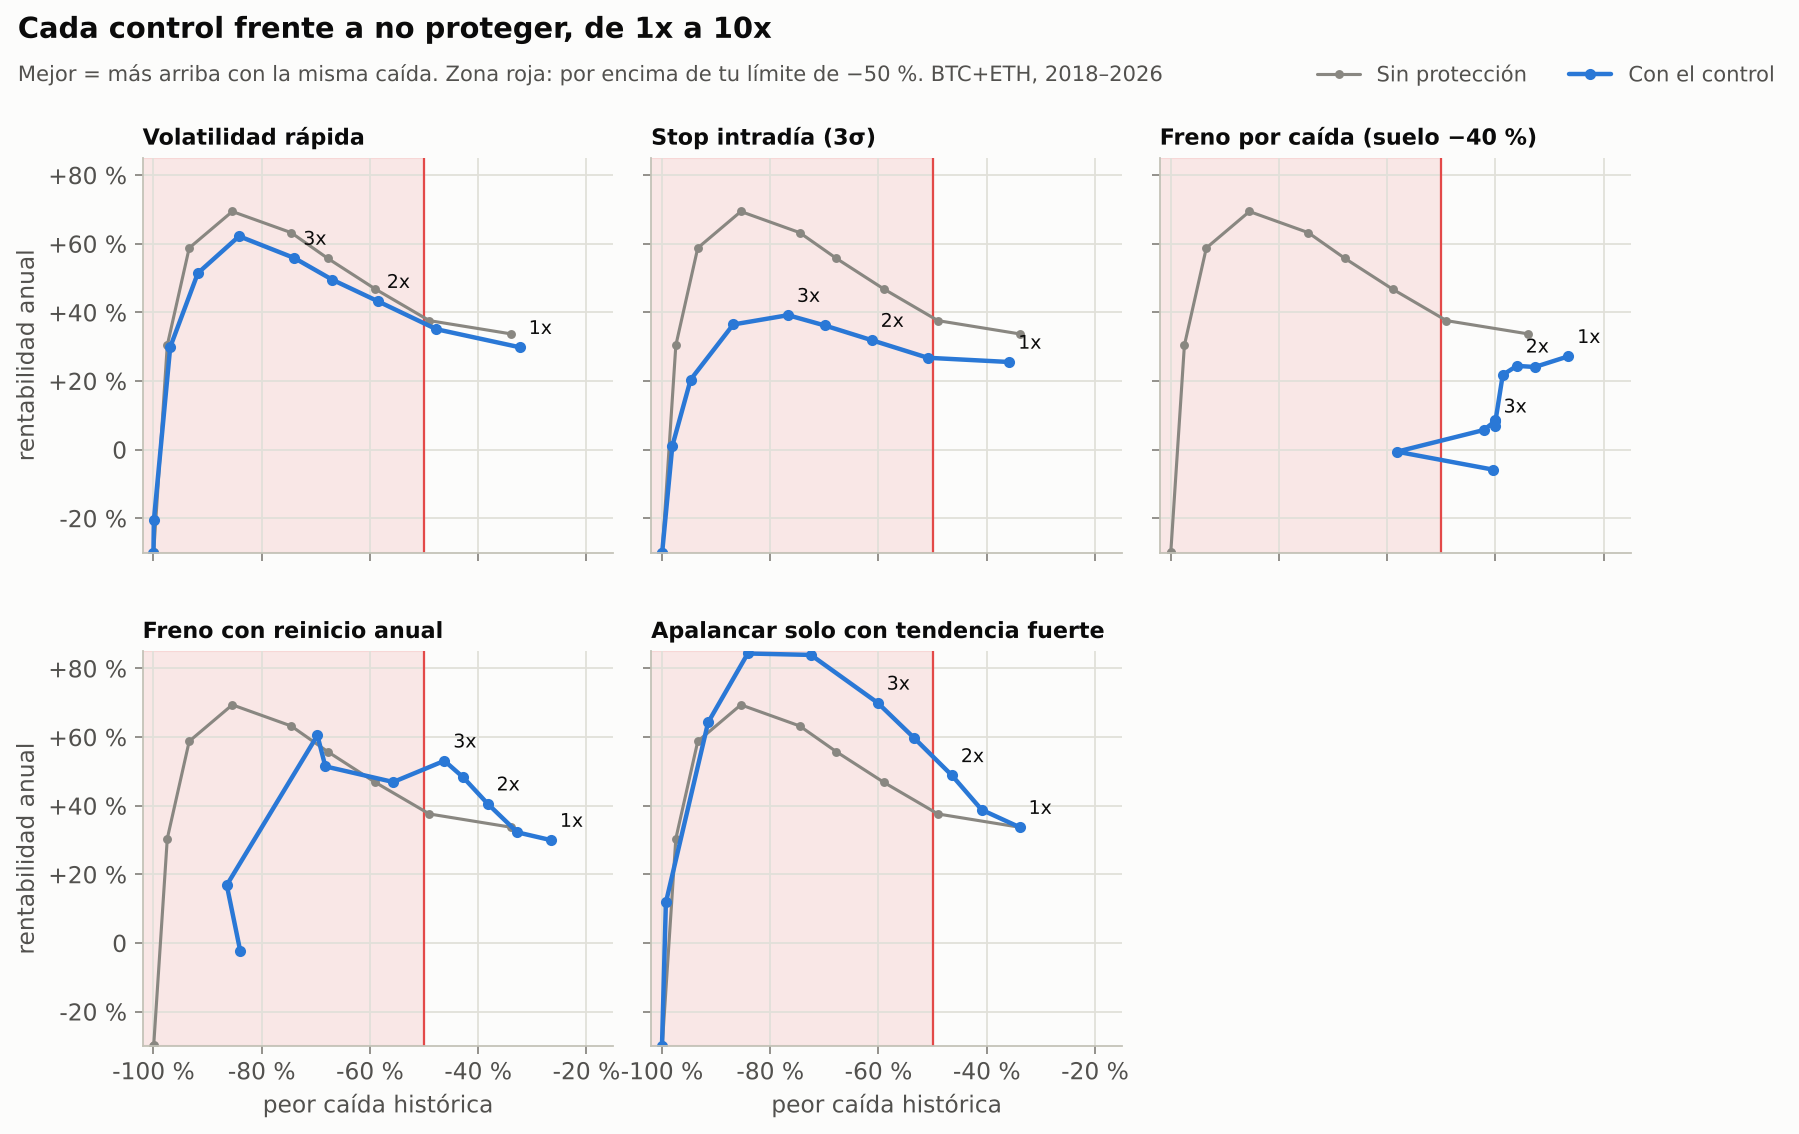
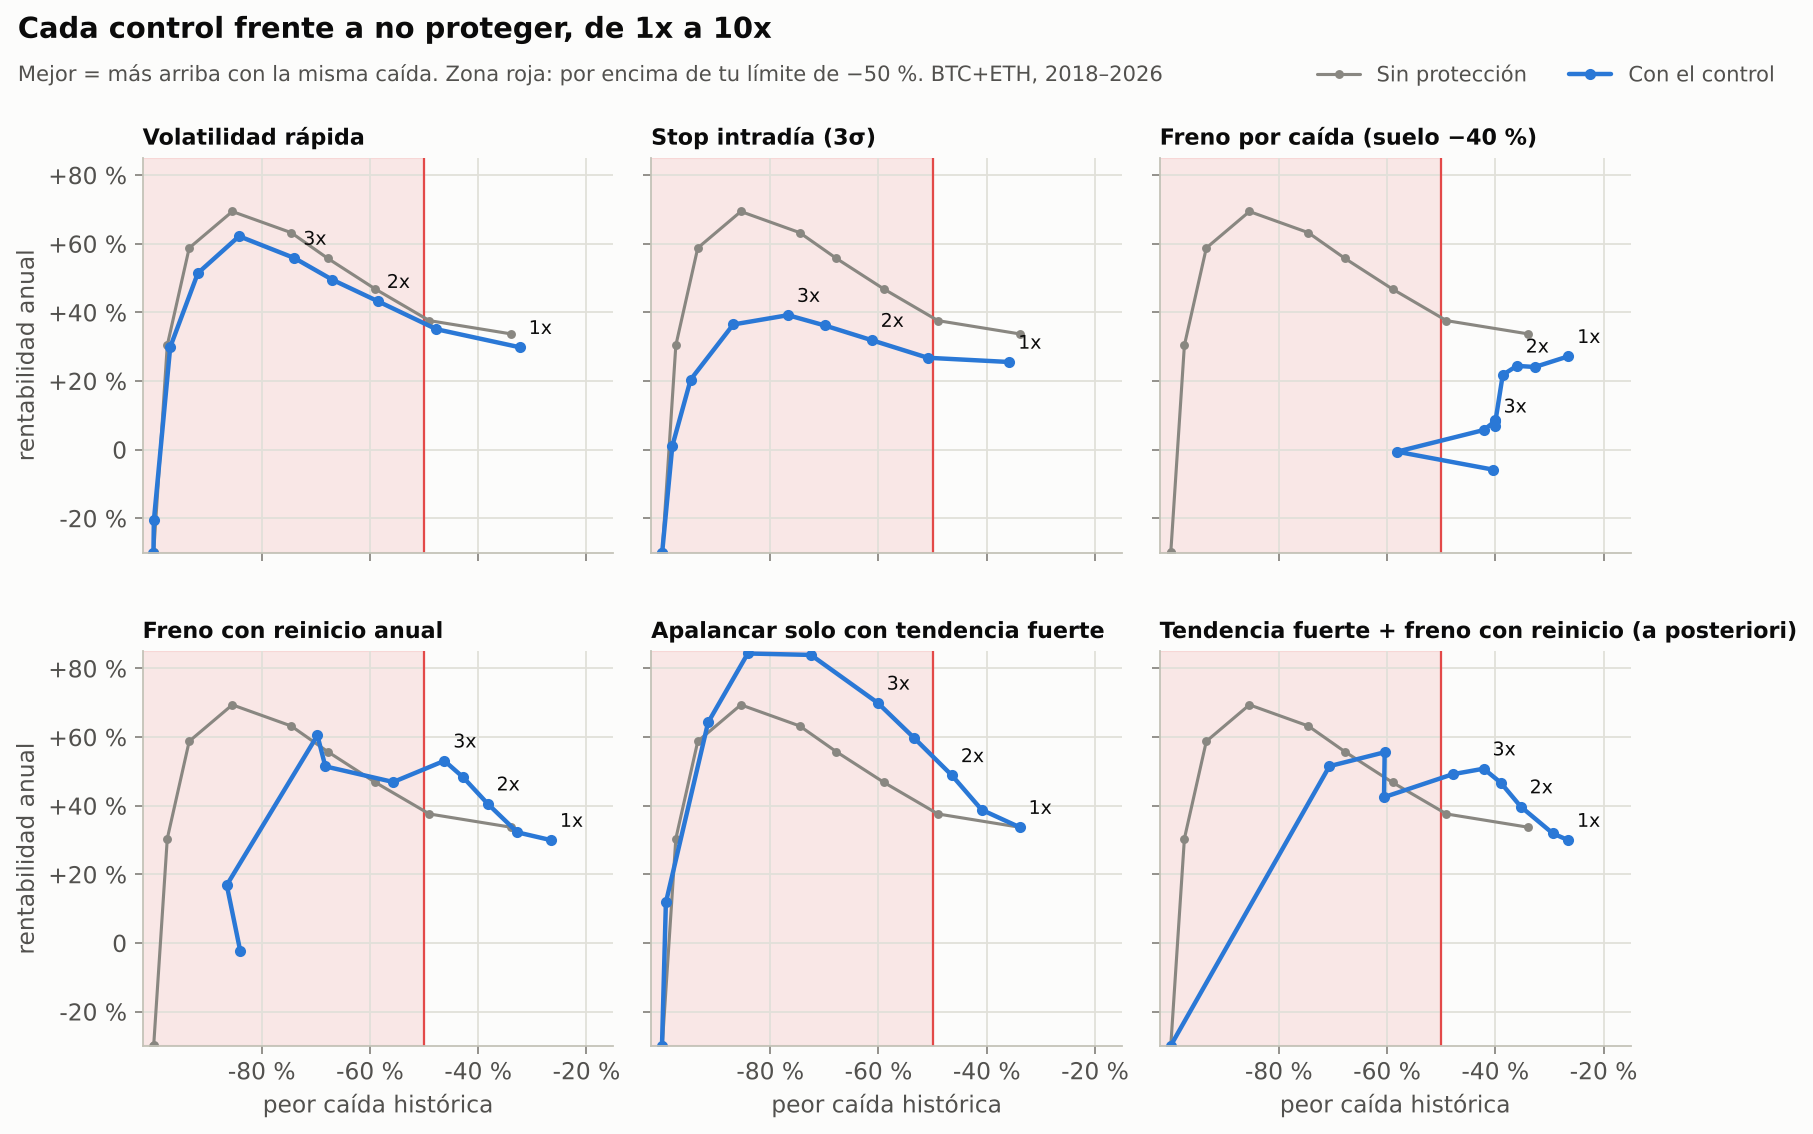
Resultados de los controles de protección y apalancamiento (BTC y ETH)
- Segunda ejecución con dos combinaciones elegidas a posteriori (marcadas
  como tales) y la métrica "mejor apalancamiento aceptable".
- Gráficos 12 (mejor apalancamiento aceptable por control) y 13 (cada
  control frente a no proteger, de 1x a 10x).
- docs/proteccion_apalancamiento.md completo: ningún control fijado de
  antemano rinde más que 1x cumpliendo el límite; la combinación
  "tendencia fuerte + freno con reinicio" a 2x queda justo en el límite.

Claude-Session: https://claude.ai/code/session_01DFNDihQv8ntJXPbvR4PYA3

diff --git a/scripts/charts_protection.py b/scripts/charts_protection.py
@@ -22,7 +22,8 @@ def chart_max_leverage() -> None:
     y = np.arange(len(best))
     base = best.loc[best["variante"] == "Sin protección", "CAGR_hist"].iloc[0]
     fig, ax = plt.subplots(figsize=(11, 5.8))
-    colors = [plots.SERIES[0] if v == "Sin protección" else plots.MUTED for v in best["variante"]]
+    colors = [plots.SERIES[0] if v == "Sin protección" else (plots.SERIES[1] if "a posteriori" in v else plots.MUTED)
+              for v in best["variante"]]
     ax.barh(y, best["CAGR_hist"], height=0.55, color=colors)
     ax.axvline(base, color=plots.SERIES[0], linewidth=1)
     for yi, (lev, cagr, dd, p50) in enumerate(zip(best["apalanc_mejor_aceptable"], best["CAGR_hist"],
@@ -30,11 +31,11 @@ def chart_max_leverage() -> None:
         ax.text(cagr + 0.006, yi, f"{plots.num(lev, 1)}x · peor caída {plots.num(dd * 100, 0)} % · "
                                   f"prob. >50 %: {plots.num(p50 * 100, 0)} %", va="center", color=plots.INK_2, fontsize=8.8)
     ax.set_yticks(y, best["variante"])
-    ax.set_xlim(0, 0.62)
+    ax.set_xlim(0, 0.66)
     ax.grid(axis="y", visible=False)
     plots.es_axis(ax.xaxis, percent=True)
     ax.set_xlabel("rentabilidad anual compuesta (2018–2026) con el mejor apalancamiento que cumple tu límite")
-    ax.set_title("Ningún control consigue más rentabilidad que no apalancar, cumpliendo tu límite", pad=26)
+    ax.set_title("Solo una combinación elegida a posteriori rinde más que no apalancar, y justo en el límite", pad=26)
     plots.subtitle(ax, "Para cada control: el apalancamiento que más rinde sin pasar de −50 % (histórico), con ≤ 5 % "
                        "de probabilidad de superarlo en 3 años y ≤ 1 % de liquidación")
     plots.save(fig, "12_proteccion_apalancamiento_max.png")

diff --git a/docs/proteccion_apalancamiento.md b/docs/proteccion_apalancamiento.md
@@ -6,7 +6,20 @@
 
 ¿Podemos añadir controles que protejan ante caídas y, gracias a ellos, usar más apalancamiento sin romper tu límite de −50 %?
 
-<!-- RESUMEN -->
+## Resumen
+
+**Respuesta corta: los controles reducen las caídas, pero en esta estrategia casi no permiten ganar más apalancando.**
+
+- **No apalancar (1x) sigue siendo lo mejor entre lo fijado de antemano:** 34 % al año (2018–2026), peor caída −34 % y ~1 % de probabilidad de superar el −50 % en 3 años. Ningún control definido de antemano rinde más cumpliendo la regla.
+- **Stop intradía:** elimina las liquidaciones incluso a 10x, pero salta en mechas que luego se recuperan (93 veces en 8 años). A 1x baja la rentabilidad del 34 % al 26 % sin reducir la caída.
+- **Freno por caída permanente:** contiene la caída en ~−40 % aunque se apalanque mucho, pero cuanto más apalancas menos ganas. A 3x toca el suelo y se queda en USDT 6,6 años: 7 % al año.
+- **Los dos controles que mejoran la curva** son el freno con reinicio anual y apalancar solo con tendencia fuerte. Por sí solos se quedan en 1x–1,5x, porque la simulación da demasiada probabilidad de superar el −50 %.
+- **La combinación de esos dos a 2x** es la única que rinde más que 1x cumpliendo la regla:
+  - 40 % al año, caída −35 %, +29 % en 2025–2026.
+  - Pero queda **justo en el límite de riesgo** (5,0 % de probabilidad de superar el −50 %, frente al ~1 % de 1x).
+  - Y se eligió **después** de ver los resultados, así que es optimista.
+
+**Recomendación:** arrancar el bot a **1x**. La combinación "tendencia fuerte + freno con reinicio a 2x" puede correr **en paralelo en el modo demo** como candidata. Solo pasaría a dinero real si en demo se comporta como en el backtest.
 
 ## Los controles probados
 
@@ -26,7 +39,72 @@ Todos se calculan con información hasta el cierre anterior, sin mirar al futuro
 2. En la simulación de 3 años (400 escenarios), la probabilidad de caer más de un 50 % es ≤ 5 %.
 3. La probabilidad de alguna liquidación es ≤ 1 %.
 
-<!-- RESULTADOS -->
+## Resultados
+
+![Mejor apalancamiento aceptable por control](img/12_proteccion_apalancamiento_max.png)
+
+**El mejor apalancamiento aceptable de cada control** (el que más rinde cumpliendo la regla):
+
+| Control | Apalancamiento | Rentab. anual 2018–26 | Peor caída | Examen 2025–26 | Prob. caída > 50 % en 3 años |
+|---|---|---|---|---|---|
+| **Sin protección** | **1x** | **34 %** | **−34 %** | **+26 %** | **1 %** |
+| Volatilidad rápida | 1x | 30 % | −32 % | +20 % | 0 % |
+| Stop intradía | 1x | 26 % | −36 % | +20 % | 2 % |
+| Freno por caída (permanente) | 1x | 27 % | −27 % | +18 % | 0 % |
+| Freno con reinicio anual | 1,5x | 32 % | −33 % | +20 % | 2,5 % |
+| Solo con tendencia fuerte | 1x | 34 % | −34 % | +26 % | 1 % |
+| Todo junto (permanente) | 1x | 18 % | −27 % | +13 % | 0 % |
+| Todo junto (reinicio anual) | 1,5x | 22 % | −30 % | +17 % | 2 % |
+| *Tendencia fuerte + freno con reinicio (a posteriori)* | *2x* | *40 %* | *−35 %* | *+29 %* | *5,0 %* |
+| *Tendencia fuerte + freno permanente (a posteriori)* | *2x* | *28 %* | *−34 %* | *+22 %* | *0 %* |
+
+Con el freno permanente, la regla admitiría hasta 6x, pero a ese nivel la rentabilidad es del 6 % al año porque la cuenta se queda en USDT. Por eso la tabla muestra el apalancamiento que **más rinde**, no el máximo.
+
+**Configuraciones tentadoras que la simulación rechaza.** En el histórico real cumplen tu límite y rinden más, pero la probabilidad de superar el −50 % en 3 años es demasiado alta:
+
+| Configuración | Rentab. anual | Peor caída histórica | Examen 2025–26 | Prob. caída > 50 % |
+|---|---|---|---|---|
+| Sin protección 1,5x | 38 % | −49 % | +33 % | 22 % |
+| Freno con reinicio anual 2x | 41 % | −38 % | +22 % | 9 % |
+| Freno con reinicio anual 3x | 53 % | −46 % | +26 % | 30 % |
+| Solo con tendencia fuerte 1,5x | 39 % | −41 % | +34 % | 14 % |
+| Solo con tendencia fuerte 2x | 49 % | −46 % | +42 % | 36 % |
+| Tendencia fuerte + freno con reinicio 2,5x | 47 % | −39 % | +34 % | 12 % |
+
+La diferencia entre el histórico y la simulación tiene explicación:
+- **El histórico es un único camino.** Entre 2018 y 2026 los meses malos quedaron repartidos.
+- **La simulación recombina bloques de 30 días.** Construye caminos plausibles en los que varios meses malos caen seguidos.
+
+Si aceptaras, por ejemplo, un 10 % de probabilidad de superar el −50 %, el freno con reinicio anual a 2x entraría.
+
+![Cada control frente a no proteger](img/13_proteccion_riesgo_rentabilidad.png)
+
+### Por qué aquí los controles no permiten apalancar mucho más
+
+1. **Las caídas de A no vienen de desplomes repentinos**, sino de rachas de señales falsas, como el mercado lateral de 2022–2023. Un stop no protege de eso.
+2. **En tendencia alcista, las caídas intradía suelen rebotar** (lo vimos al estudiar la estrategia B). El stop vende justo en el peor momento.
+3. **El freno vende después de perder y vuelve a subir la exposición tarde**, así que se pierde parte de la recuperación. En su versión permanente puede dejar la cuenta en USDT para siempre.
+4. **Apalancar cuesta.** El funding se paga sobre todo el nocional (de media ~12 % al año en BTC desde 2020) y mantener el apalancamiento obliga a reajustar con comisiones.
+
+### Sensibilidad
+
+He variado los parámetros de "todo junto" (stop a 2, 3 o 4 desviaciones; suelo a −30 % o −40 %; volatilidad objetivo del 30, 40 o 60 %) con 2x, 3x y 5x, en total 54 combinaciones. Todas rinden entre −4 % y 22 % al año, **ninguna llega al 34 % de no apalancar**. La conclusión no depende de los parámetros elegidos.
+
+### Limitaciones
+
+- **No hay datos nuevos:** 2025–2026 ya se había usado. Los parámetros se fijaron por criterio, y las dos combinaciones "a posteriori" están marcadas porque se eligieron viendo los resultados.
+- **La simulación es una prueba de estrés, no una predicción.** Al recombinar bloques de 30 días rompe las tendencias largas.
+- **El stop se modela con deslizamiento extra,** pero en un desplome real (o con el exchange saturado) podría ser peor.
+- **Liquidación:** se ha usado un margen de mantenimiento del 0,5 %; los niveles reales de OKX pueden diferir según el tamaño de la posición.
+
+## Reproducir
+
+```bash
+python scripts/protection_analysis.py   # ~20 minutos (400 escenarios por combinación)
+python scripts/charts_protection.py     # gráficos 12 y 13
+```
+
+Resultados en `results/proteccion/`.
 
 ## Cómo se aplicarían en el bot
 

diff --git a/README.md b/README.md
@@ -11,7 +11,10 @@ Investigación y desarrollo de un bot de trading que rota el capital entre dos c
 3. **Ampliación al top 10 y apalancamiento 0x–10x:** informe [`docs/top10_apalancamiento.md`](docs/top10_apalancamiento.md).
    - Sin el sesgo de elegir los ganadores de hoy, añadir altcoins a BTC y ETH empeora el resultado (×4,6 frente a ×14,7 en 2019–2026).
    - Con el límite de caída del 50 %, el apalancamiento máximo razonable es 1x (1,5x ya lo roza); a 10x todo se liquida.
-4. **Siguiente fase propuesta:** motor del bot (estrategia A, solo BTC y ETH, sin apalancamiento) y paper trading en OKX Europa.
+4. **Controles de protección para apalancar más (BTC y ETH):** informe [`docs/proteccion_apalancamiento.md`](docs/proteccion_apalancamiento.md).
+   - Stop intradía, volatilidad rápida y freno por caída reducen caídas pero no permiten ganar más apalancando; 1x sigue siendo lo mejor entre lo fijado de antemano.
+   - Única candidata: "tendencia fuerte + freno con reinicio anual" a 2x (40 % anual frente a 34 %, caída similar), elegida a posteriori y justo en el límite de riesgo.
+5. **Siguiente fase propuesta:** motor del bot (estrategia A, solo BTC y ETH, 1x) y paper trading en OKX Europa, con la candidata a 2x en paralelo solo en demo.
 
 ## Estructura
 
@@ -23,6 +26,7 @@ corrbot/            librería
   trend.py          estrategia A: tendencia con tamaño por volatilidad, backtest, test de azar, simulación de caídas
   dips.py           estrategia B: compras tras caídas extremas (órdenes límite, funding)
   leverage.py       simulador con apalancamiento: funding, liquidación y rebalanceo
+  protect.py        controles de protección: volatilidad rápida, stop intradía, freno por caída, tendencia fuerte
   plots.py          estilo de gráficos
 scripts/
   download_data.py  descarga el dataset (~200 MB en data/, ignorado por git)
@@ -35,6 +39,8 @@ scripts/
   leverage_analysis.py  apalancamiento 0x-10x en BTC/ETH, rotación y B → results/apalancamiento/
   top10_analysis.py     top 10 de hoy y de cada momento, con apalancamiento → results/top10/
   charts_top10_leverage.py  gráficos 09-11
+  protection_analysis.py    controles de protección y apalancamiento máximo aceptable → results/proteccion/
+  charts_protection.py      gráficos 12-13
 tests/              tests del backtester (incluye comprobación de "no mirar al futuro")
 results/            resultados en CSV (los números del informe)
 docs/               informe y gráficos
